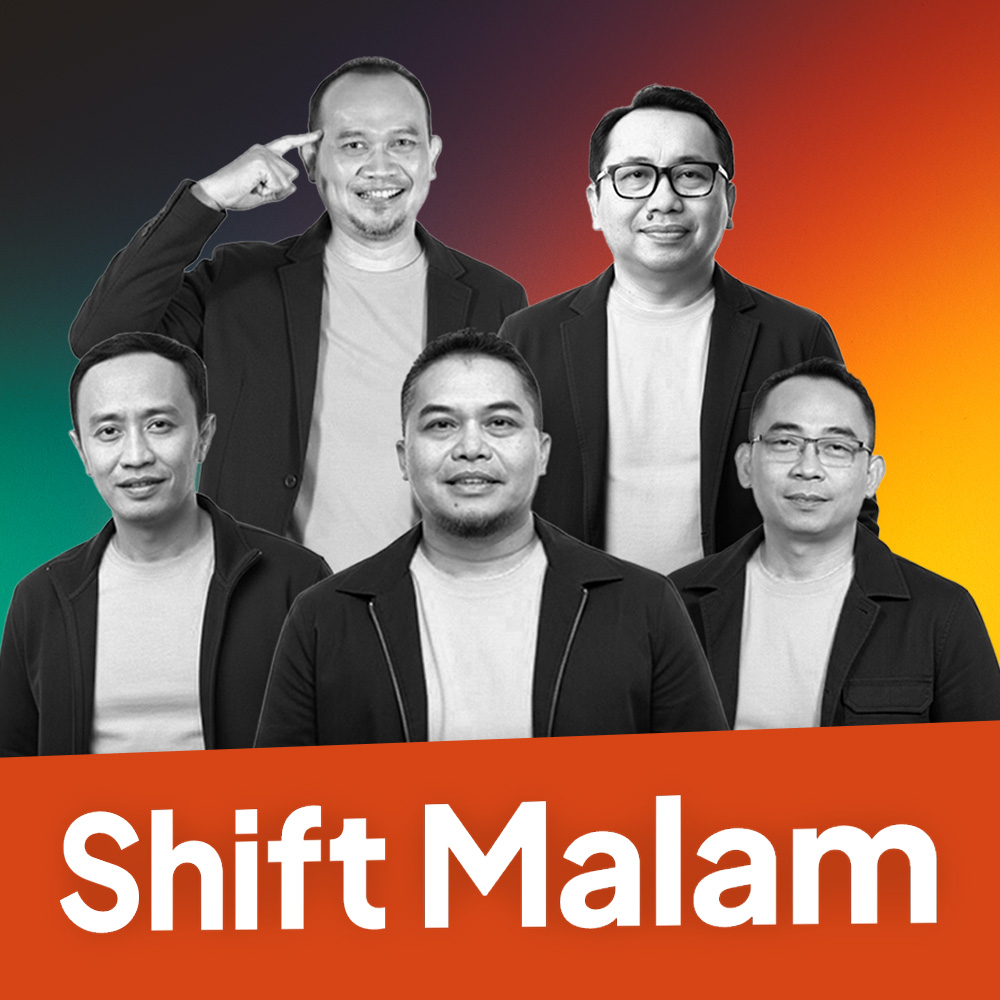
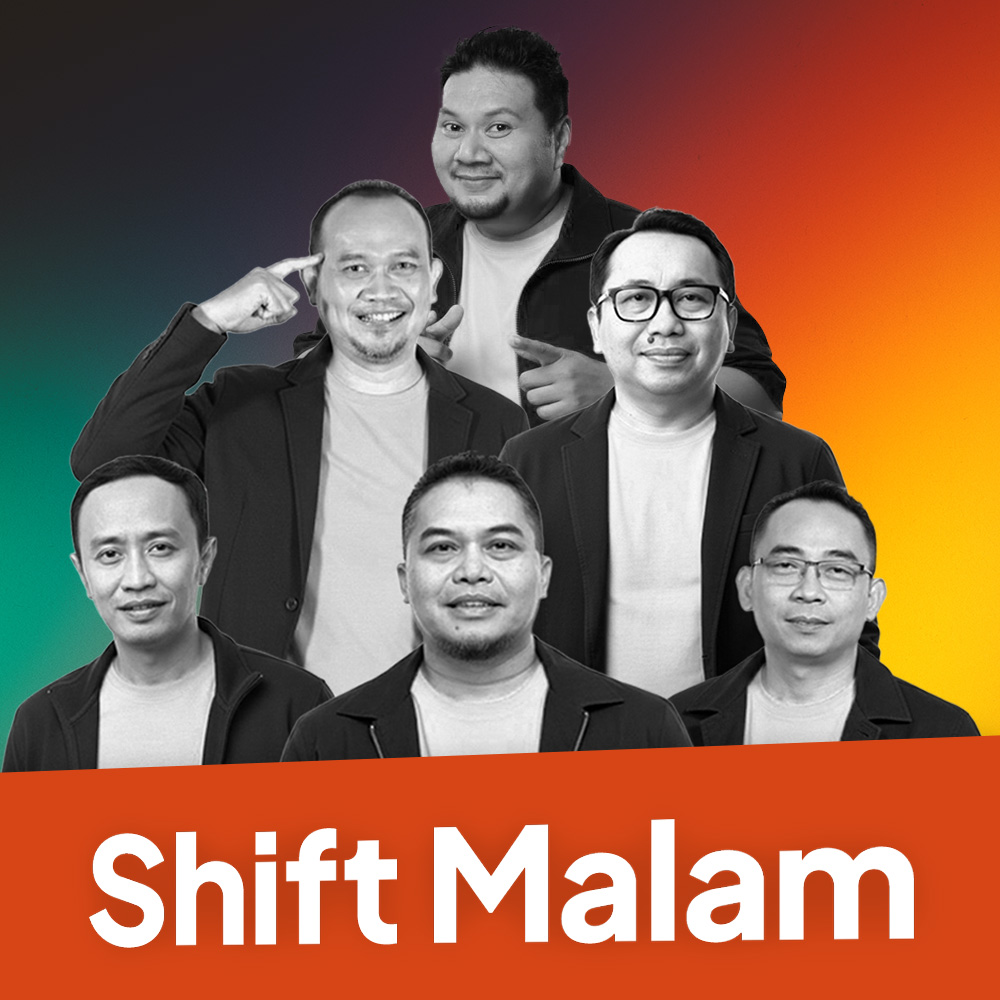
Ganti Jadwal Baru

diff --git a/src/lib/schedule.ts b/src/lib/schedule.ts
@@ -83,9 +83,9 @@ function buildMonday(): Seg[] {
       start: "10:00", 
       end: "13:00", 
       show: "Office Hour", 
-      host: "Luvi & Rio", 
+      host: "Rio", 
       desc: "Teman kerja paling pas. Lagu-lagu terbaru hits Indo & manca, plus request via WA/TikTok.", 
-      image: "/shows/officehour-luvi-rio.jpg",
+      image: "/shows/officehour-rio.jpg",
       live: true 
     },
     { 
@@ -94,29 +94,29 @@ function buildMonday(): Seg[] {
       show: "Coffee Break", 
       host: "OT Syech & Nayla", 
       desc: "Waktunya rehat sejenak. Obrolan santai seputar komunitas, budaya, dan info giat Pemprov.", 
-      image: "/shows/coffee-break.jpg",
+      image: "/shows/coffee-break2.jpg",
       live: true 
     },
     { 
       start: "16:00", 
       end: "20:00", 
-      show: "Drive Time Jakarta", 
-      host: "Reno & McDanny", 
+      show: "Drive Time", 
+      host: "Reno & MC Dany", 
       desc: "Teman perjalanan pulang. Musik hits sore, update traffic, dan info seputar TransJakarta.", 
       image: "/shows/drivetime.jpg",
       live: true 
     },
     { 
       start: "20:00", 
-      end: "22:00", 
+      end: "23:00", 
       show: "Shift Malam", 
-      host: "Mazdjo Pray & Eko Kuntadhi", 
+      host: "Denny CH & Eko Kuntadhi", 
       desc: "Obrolan malam yang ringan dan menghibur. Ada info penting, podcast mingguan, dan komedi.", 
       image: "/shows/Shiftmalam.jpg",
       live: true 
     },
     {
-      start: "22:00",
+      start: "23:00",
       end: "24:00",
       show: "Yesterday Hits",
       desc: "Memutar kembali kenangan lewat lagu nostalgia 80-90an, Indo & barat.",
@@ -150,40 +150,40 @@ function buildTuesday(): Seg[] {
       start: "10:00", 
       end: "13:00", 
       show: "Office Hour", 
-      host: "Odah & Rio", 
+      host: "Rio", 
       desc: "Teman kerja paling pas. Lagu-lagu terbaru hits Indo & manca, plus request via WA/TikTok.", 
-      image: "/shows/officehour-odah-rio.jpg",
+      image: "/shows/officehour-rio.jpg",
       live: true 
     },
     { 
       start: "13:00", 
       end: "16:00", 
       show: "Coffee Break", 
-      host: "Abi & Risan", 
+      host: "Abi & Hatma", 
       desc: "Waktunya rehat sejenak. Obrolan santai seputar komunitas, budaya, dan info giat Pemprov.", 
-      image: "/shows/coffee-break.jpg",
+      image: "/shows/coffee-break2.jpg",
       live: true 
     },
     { 
       start: "16:00", 
       end: "20:00", 
-      show: "Drive Time Jakarta", 
-      host: "Reno & McDanny", 
+      show: "Drive Time", 
+      host: "Reno & MC Dany", 
       desc: "Teman perjalanan pulang. Musik hits sore, update traffic, dan info seputar TransJakarta.", 
       image: "/shows/drivetime.jpg",
       live: true 
     },
     { 
       start: "20:00", 
-      end: "22:00", 
+      end: "23:00", 
       show: "Shift Malam", 
-      host: "Akbar & Cak Lontong", 
+      host: "Mazdjo Pray & Eko Kuntadhi", 
       desc: "Obrolan malam yang ringan dan menghibur. Ada info penting, podcast mingguan, dan komedi.", 
       image: "/shows/Shiftmalam.jpg",
       live: true 
     },
     {
-      start: "22:00",
+      start: "23:00",
       end: "24:00",
       show: "Yesterday Hits",
       desc: "Memutar kembali kenangan lewat lagu nostalgia 80-90an, Indo & barat.",
@@ -217,32 +217,32 @@ function buildWednesday(): Seg[] {
       start: "10:00", 
       end: "13:00", 
       show: "Office Hour", 
-      host: "Odah & Yaser", 
+      host: "Luvi", 
       desc: "Teman kerja paling pas. Lagu-lagu terbaru hits Indo & manca, plus request via WA/TikTok.", 
-      image: "/shows/officehour-odah-yaser.jpg",
+      image: "/shows/officehour-luvi.jpg",
       live: true 
     },
     { 
       start: "13:00", 
       end: "16:00", 
       show: "Coffee Break", 
-      host: "Abi & Risan", 
+      host: "Abi & Hatma", 
       desc: "Waktunya rehat sejenak. Obrolan santai seputar komunitas, budaya, dan info giat Pemprov.", 
-      image: "/shows/coffee-break.jpg",
+      image: "/shows/coffee-break2.jpg",
       live: true 
     },
     { 
       start: "16:00", 
       end: "20:00", 
-      show: "Drive Time Jakarta", 
-      host: "Reno & McDanny", 
+      show: "Drive Time", 
+      host: "Reno & Dany", 
       desc: "Teman perjalanan pulang. Musik hits sore, update traffic, dan info seputar TransJakarta.", 
       image: "/shows/drivetime.jpg",
       live: true 
     },
     { 
       start: "20:00", 
-      end: "22:00", 
+      end: "23:00", 
       show: "Shift Malam", 
       host: "Mo Sidik & Denny Chandra", 
       desc: "Obrolan malam yang ringan dan menghibur. Ada info penting, podcast mingguan, dan komedi.", 
@@ -250,7 +250,7 @@ function buildWednesday(): Seg[] {
       live: true 
     },
     {
-      start: "22:00",
+      start: "23:00",
       end: "24:00",
       show: "Yesterday Hits",
       desc: "Memutar kembali kenangan lewat lagu nostalgia 80-90an, Indo & barat.",
@@ -284,40 +284,40 @@ function buildThursday(): Seg[] {
       start: "10:00", 
       end: "13:00", 
       show: "Office Hour", 
-      host: "Hatma & Luvi", 
+      host: "Luvi", 
       desc: "Teman kerja paling pas. Lagu-lagu terbaru hits Indo & manca, plus request via WA/TikTok.", 
-      image: "/shows/officehour-hatma-luvi.jpg",
+      image: "/shows/officehour-luvi.jpg",
       live: true 
     },
     { 
       start: "13:00", 
       end: "16:00", 
       show: "Coffee Break", 
-      host: "Opet & Risan", 
+      host: "Abi & Hatma", 
       desc: "Waktunya rehat sejenak. Obrolan santai seputar komunitas, budaya, dan info giat Pemprov.", 
-      image: "/shows/coffee-break.jpg",
+      image: "/shows/coffee-break2.jpg",
       live: true 
     },
     { 
       start: "16:00", 
       end: "20:00", 
-      show: "Drive Time Jakarta", 
-      host: "Reno & McDanny", 
+      show: "Drive Time", 
+      host: "Reno & Dany", 
       desc: "Teman perjalanan pulang. Musik hits sore, update traffic, dan info seputar TransJakarta.", 
       image: "/shows/drivetime.jpg",
       live: true 
     },
     { 
       start: "20:00", 
-      end: "22:00", 
+      end: "23:00", 
       show: "Shift Malam", 
-      host: "Mo Sidik & Denny Chandra", 
+      host: "Eko Kuntadhi & Mazdjo Pray", 
       desc: "Obrolan malam yang ringan dan menghibur. Ada info penting, podcast mingguan, dan komedi.", 
       image: "/shows/Shiftmalam.jpg",
       live: true 
     },
     {
-      start: "22:00",
+      start: "23:00",
       end: "24:00",
       show: "Yesterday Hits",
       desc: "Memutar kembali kenangan lewat lagu nostalgia 80-90an, Indo & barat.",
@@ -351,40 +351,40 @@ function buildFriday(): Seg[] {
       start: "10:00", 
       end: "13:00", 
       show: "Office Hour", 
-      host: "Hatma & Luvi", 
+      host: "Luvi", 
       desc: "Teman kerja paling pas. Lagu-lagu terbaru hits Indo & manca, plus request via WA/TikTok.", 
-      image: "/shows/officehour-hatma-luvi.jpg",
+      image: "/shows/officehour-luvi.jpg",
       live: true 
     },
     { 
       start: "13:00", 
       end: "16:00", 
       show: "Coffee Break", 
-      host: "OT Syech & Opet", 
+      host: "OT Syech & Risan", 
       desc: "Waktunya rehat sejenak. Obrolan santai seputar komunitas, budaya, dan info giat Pemprov.", 
-      image: "/shows/coffee-break.jpg",
+      image: "/shows/coffee-break2.jpg",
       live: true 
     },
     { 
       start: "16:00", 
       end: "20:00", 
-      show: "Drive Time Jakarta", 
-      host: "Reno & McDanny", 
+      show: "Drive Time", 
+      host: "Reno & Dany", 
       desc: "Teman perjalanan pulang. Musik hits sore, update traffic, dan info seputar TransJakarta.", 
       image: "/shows/drivetime.jpg",
       live: true 
     },
     { 
       start: "20:00", 
-      end: "22:00", 
+      end: "23:00", 
       show: "Shift Malam", 
-      host: "Mo Sidik & Denny Chandra", 
+      host: "Mo Sidik", 
       desc: "Obrolan malam yang ringan dan menghibur. Ada info penting, podcast mingguan, dan komedi.", 
       image: "/shows/Shiftmalam.jpg",
       live: true 
     },
     {
-      start: "22:00",
+      start: "23:00",
       end: "24:00",
       show: "Yesterday Hits",
       desc: "Memutar kembali kenangan lewat lagu nostalgia 80-90an, Indo & barat.",
@@ -409,7 +409,7 @@ function buildSaturday(): Seg[] {
       start: "06:00", 
       end: "10:00", 
       show: "Good Morning Jakarta Weekend", 
-      host: "Rio & Odah", 
+      host: "OT & Odah", 
       desc: "Menemani akhir pekanmu dengan musik hits, info lalu lintas, dan berita ringan Jakarta.", 
       image: "/shows/goodmorningjakarta-weekend.jpg",
       live: true 
@@ -418,40 +418,39 @@ function buildSaturday(): Seg[] {
       start: "10:00", 
       end: "13:00", 
       show: "Office Hour", 
-      host: "Opet & Hatma", 
+      host: "Rio", 
       desc: "Teman kerja paling pas. Lagu-lagu terbaru hits Indo & manca, plus request via WA/TikTok.", 
-      image: "/shows/officehour-opet-hatma.jpg",
+      image: "/shows/officehour-rio.jpg",
       live: true 
     },
     { 
       start: "13:00", 
       end: "16:00", 
       show: "Coffee Break", 
-      host: "Abi & Risan", 
+      host: "Abi & Hatma", 
       desc: "Waktunya rehat sejenak. Obrolan santai seputar komunitas, budaya, dan info giat Pemprov.", 
-      image: "/shows/coffee-break.jpg",
+      image: "/shows/coffee-break2.jpg",
       live: true 
     },
     { 
       start: "16:00", 
       end: "20:00", 
-      show: "Drive Time Jakarta Weekend", 
-      host: "OT Syech & Nayla", 
+      show: "Drive Time Weekend", 
+      host: "Risan & Nayla", 
       desc: "Menemani sore akhir pekanmu di jalan. Dengerin musik hits sambil dapet update info lalu lintas.", 
-      image: "/shows/drivetime-weekend.jpg",
+      image: "/shows/drivetime-weekend-2.jpg",
       live: true 
     },
     { 
       start: "20:00", 
-      end: "22:00", 
+      end: "23:00", 
       show: "Shift Malam", 
-      host: "THE LIMPA", 
-      desc: "Malam mingguan makin seru bareng THE LIMPA! Obrolan ngalor-ngidul yang penting tapi santai.", 
+      desc: "Acara rekaman (tapping) program Shift Malam.", 
       image: "/shows/Shiftmalam.jpg",
       live: true 
     },
     {
-      start: "22:00",
+      start: "23:00",
       end: "24:00",
       show: "Yesterday Hits",
       desc: "Memutar kembali kenangan lewat lagu nostalgia 80-90an, Indo & barat.",
@@ -476,7 +475,7 @@ function buildSunday(): Seg[] {
       start: "06:00", 
       end: "10:00", 
       show: "Good Morning Jakarta Weekend", 
-      host: "Rio & Odah", 
+      host: "OT & Odah", 
       desc: "Menemani akhir pekanmu dengan musik hits, info lalu lintas, dan berita ringan Jakarta.", 
       image: "/shows/goodmorningjakarta-weekend.jpg",
       live: true 
@@ -485,40 +484,39 @@ function buildSunday(): Seg[] {
       start: "10:00", 
       end: "13:00", 
       show: "Office Hour", 
-      host: "Opet & Hatma", 
+      host: "Rio", 
       desc: "Teman kerja paling pas. Lagu-lagu terbaru hits Indo & manca, plus request via WA/TikTok.", 
-      image: "/shows/officehour-opet-hatma.jpg",
+      image: "/shows/officehour-rio.jpg",
       live: true 
     },
     { 
       start: "13:00", 
       end: "16:00", 
       show: "Coffee Break", 
-      host: "Abi & Risan", 
+      host: "Risan & Audrey", 
       desc: "Waktunya rehat sejenak. Obrolan santai seputar komunitas, budaya, dan info giat Pemprov.", 
-      image: "/shows/coffee-break.jpg",
+      image: "/shows/coffee-break2.jpg",
       live: true 
     },
     { 
       start: "16:00", 
       end: "20:00", 
-      show: "Drive Time Jakarta Weekend", 
-      host: "OT Syech & Nayla", 
+      show: "Drive Time Weekend", 
+      host: "Nayla", 
       desc: "Menemani sore akhir pekanmu di jalan. Dengerin musik hits sambil dapet update info lalu lintas.", 
-      image: "/shows/drivetime-weekend.jpg",
+      image: "/shows/drivetime-weekend-2.jpg",
       live: true 
     },
     { 
       start: "20:00", 
-      end: "22:00", 
+      end: "23:00", 
       show: "Shift Malam", 
-      host: "THE LIMPA", 
-      desc: "Malam mingguan makin seru bareng THE LIMPA! Obrolan ngalor-ngidul yang penting tapi santai.", 
+      desc: "Acara rekaman (tapping) program Shift Malam.", 
       image: "/shows/Shiftmalam.jpg",
       live: true 
     },
     {
-      start: "22:00",
+      start: "23:00",
       end: "24:00",
       show: "Yesterday Hits",
       desc: "Memutar kembali kenangan lewat lagu nostalgia 80-90an, Indo & barat.",
